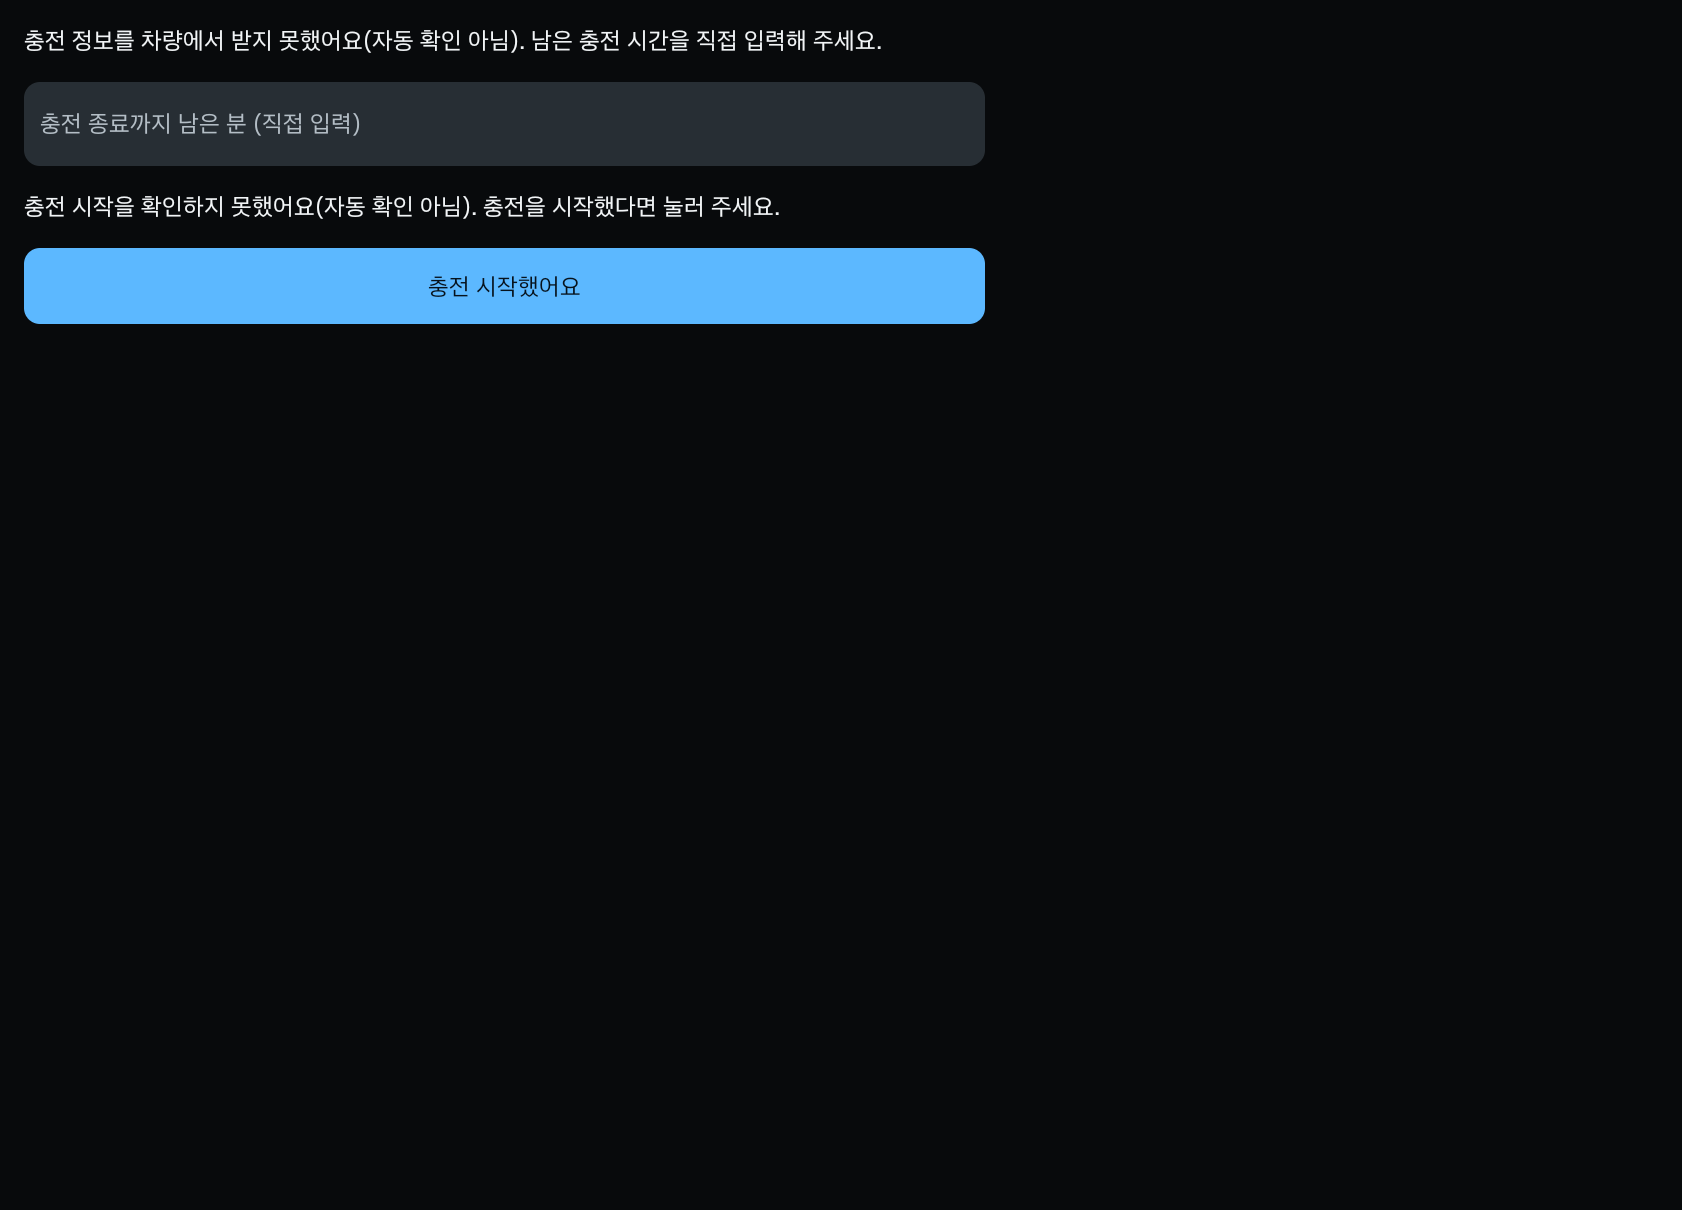
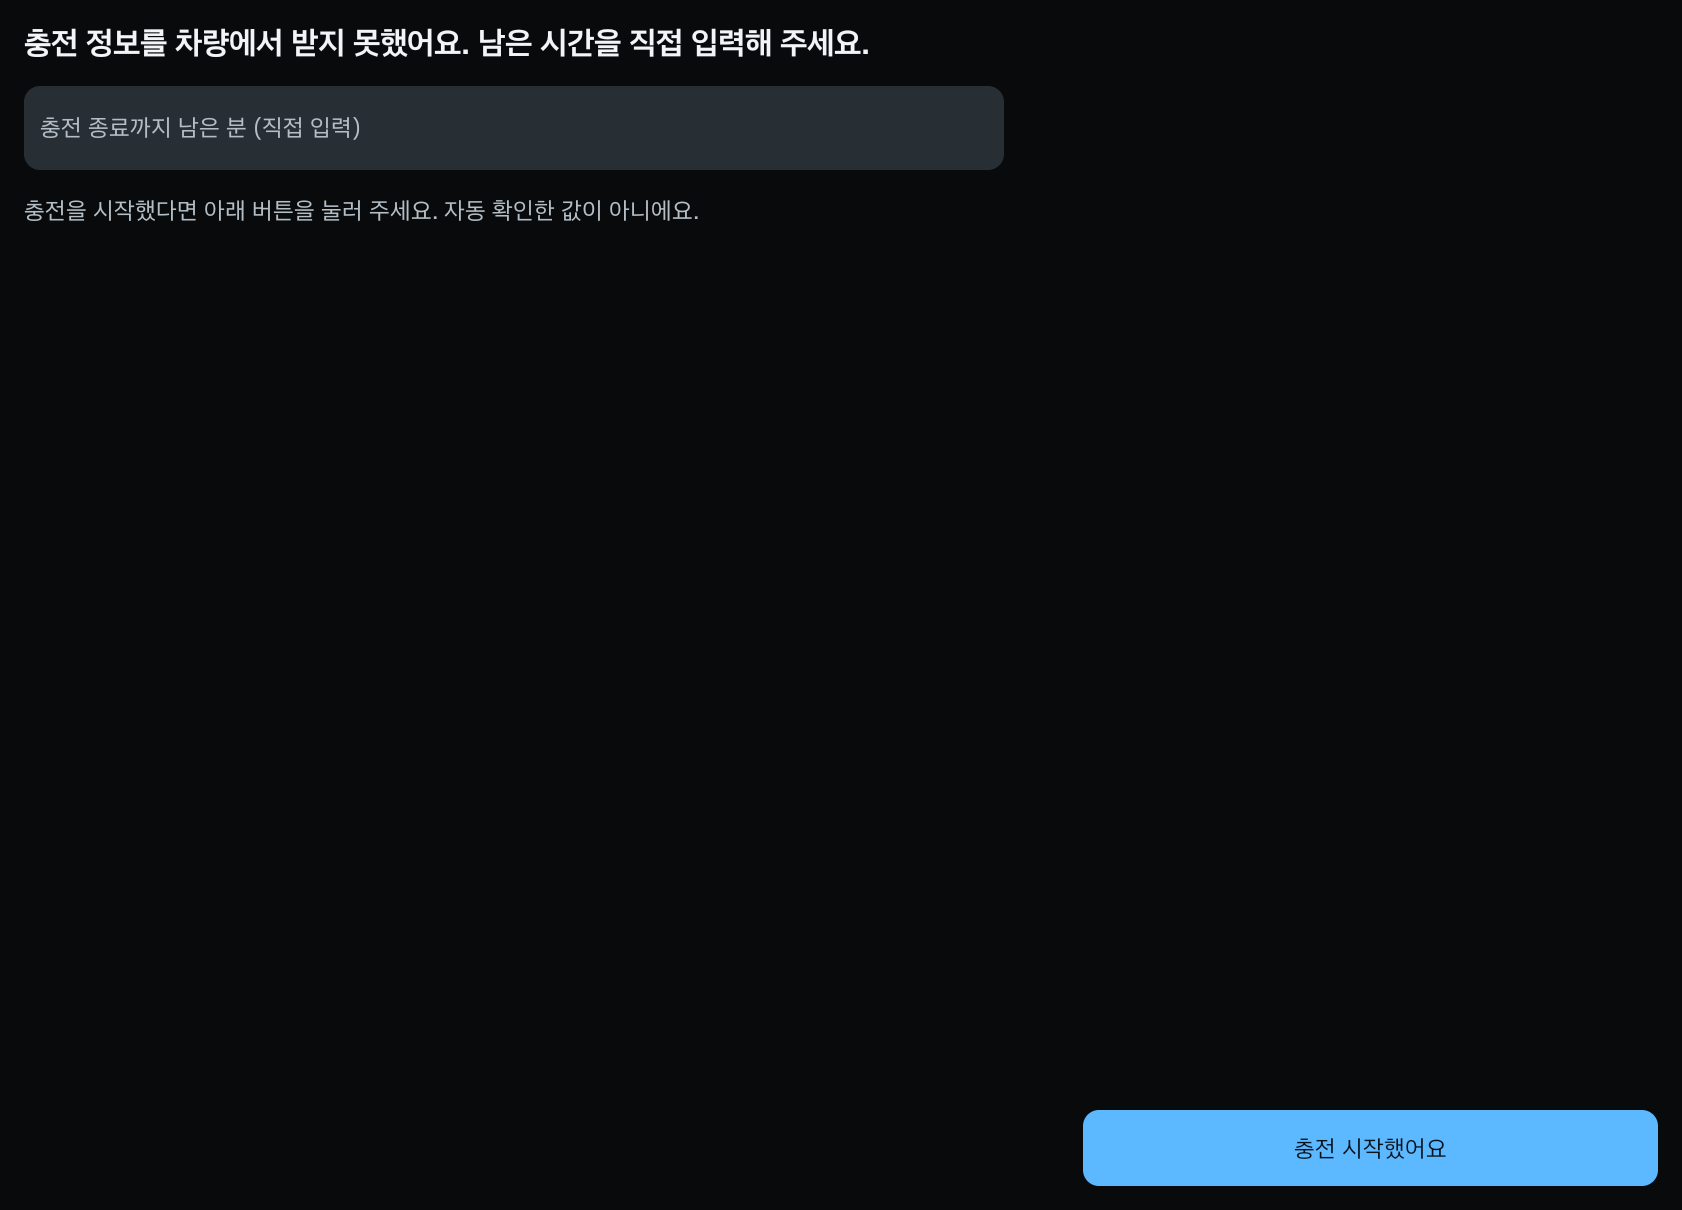
feat(ui): 충전 활동·측정 동의 Figma 위계 반영, 핸드오프·폴백 Figma 프레임 (Refs #56) (#58)

Changed region(s): [[0.0, 0.0, 0.6183, 0.2752], [0.6183, 0.9174, 0.9893, 0.9785]]

diff --git a/feature/activity/src/main/java/ai/familystop/feature/activity/ChargingActivityScreen.kt b/feature/activity/src/main/java/ai/familystop/feature/activity/ChargingActivityScreen.kt
@@ -5,7 +5,8 @@ import ai.familystop.core.designsystem.AppButton
 import ai.familystop.core.designsystem.AppTextField
 import androidx.compose.foundation.layout.Arrangement
 import androidx.compose.foundation.layout.Column
-import androidx.compose.foundation.layout.fillMaxHeight
+import androidx.compose.foundation.layout.Row
+import androidx.compose.foundation.layout.Spacer
 import androidx.compose.foundation.layout.fillMaxSize
 import androidx.compose.foundation.layout.fillMaxWidth
 import androidx.compose.foundation.layout.padding
@@ -55,42 +56,54 @@ fun ChargingActivityScreen(
             if (!autoCharging && it is ChargeInfo.Auto) ChargeInfo.Manual(it.endsAt) else it
         }
 
-    Column(
+    Column(modifier.fillMaxSize().padding(App.space.lg), verticalArrangement = Gap) {
         // 줄 길이 제한(0.6f): 넓은 화면에서 한 줄이 끝없이 늘어나지 않게
-        modifier.fillMaxHeight().fillMaxWidth(0.6f)
-            .verticalScroll(rememberScrollState()).padding(App.space.lg),
-        verticalArrangement = Gap
-    ) {
-        if (autoChargeEndsAt == null) {
-            Text("충전 정보를 차량에서 받지 못했어요(자동 확인 아님). 남은 충전 시간을 직접 입력해 주세요.")
-            AppTextField(
-                minutesText,
-                {
-                    minutesText = it.filter(Char::isDigit).take(3)
-                    manualEndsAt = manualEnd(minutesText, now)
-                },
-                "충전 종료까지 남은 분 (직접 입력)"
-            )
-        } else {
-            Text("충전 종료 예상은 차량에서 자동 확인했어요.")
-        }
-
-        if (!autoCharging && !started) {
-            Text("충전 시작을 확인하지 못했어요(자동 확인 아님). 충전을 시작했다면 눌러 주세요.")
-            AppButton("충전 시작했어요", { started = true }, Modifier.fillMaxWidth())
-            return@Column
-        }
-        if (!autoCharging) Text("충전 시작은 직접 확인한 값이에요(자동 확인 아님).")
-
-        if (candidates.isEmpty()) Text("주변에 확인된 식사·간식·휴식 후보가 없어요.")
-        candidates.forEach { c ->
-            Column(verticalArrangement = Arrangement.spacedBy(App.space.sm)) {
+        Column(
+            Modifier.weight(1f).fillMaxWidth(0.6f).verticalScroll(rememberScrollState()),
+            verticalArrangement = Gap
+        ) {
+            if (autoChargeEndsAt == null) {
                 Text(
-                    "${c.kind.label} · ${c.name}",
+                    "충전 정보를 차량에서 받지 못했어요. 남은 시간을 직접 입력해 주세요.",
                     style = App.type.stopTitle
                 )
-                Text("왕복 ${c.roundTripMin}분 · 활동 ${c.activityMin}분")
-                Text(assess(c, charge, now).message())
+                AppTextField(
+                    minutesText,
+                    {
+                        minutesText = it.filter(Char::isDigit).take(3)
+                        manualEndsAt = manualEnd(minutesText, now)
+                    },
+                    "충전 종료까지 남은 분 (직접 입력)"
+                )
+            } else {
+                Text("충전 종료 예상은 차량에서 자동 확인했어요.", style = App.type.stopTitle)
+            }
+
+            if (!autoCharging && !started) {
+                Text(
+                    "충전을 시작했다면 아래 버튼을 눌러 주세요. 자동 확인한 값이 아니에요.",
+                    color = App.colors.textSecondary
+                )
+            } else {
+                if (!autoCharging) Text("충전 시작은 직접 확인한 값이에요(자동 확인 아님).")
+                if (candidates.isEmpty()) Text("주변에 확인된 식사·간식·휴식 후보가 없어요.")
+                candidates.forEach { c ->
+                    Column(verticalArrangement = Arrangement.spacedBy(App.space.sm)) {
+                        Text("${c.kind.label} · ${c.name}", style = App.type.stopTitle)
+                        Text("왕복 ${c.roundTripMin}분 · 활동 ${c.activityMin}분")
+                        Text(assess(c, charge, now).message())
+                    }
+                }
+            }
+        }
+        // 주 행동은 하단 우측 고정(Figma ActionBar)
+        if (!autoCharging && !started) {
+            Row(
+                Modifier.fillMaxWidth(),
+                horizontalArrangement = Arrangement.spacedBy(App.space.lg)
+            ) {
+                Spacer(Modifier.weight(1.8f))
+                AppButton("충전 시작했어요", { started = true }, Modifier.weight(1f))
             }
         }
     }

diff --git a/feature/metrics/src/main/java/ai/familystop/feature/metrics/ConsentScreen.kt b/feature/metrics/src/main/java/ai/familystop/feature/metrics/ConsentScreen.kt
@@ -6,7 +6,7 @@ import ai.familystop.core.designsystem.AppToggleChip
 import androidx.compose.foundation.layout.Arrangement
 import androidx.compose.foundation.layout.Column
 import androidx.compose.foundation.layout.Row
-import androidx.compose.foundation.layout.fillMaxHeight
+import androidx.compose.foundation.layout.Spacer
 import androidx.compose.foundation.layout.fillMaxSize
 import androidx.compose.foundation.layout.fillMaxWidth
 import androidx.compose.foundation.layout.padding
@@ -48,27 +48,40 @@ fun ConsentScreen(
         Text("정차 후에 확인할 수 있어요.", modifier.fillMaxSize().padding(App.space.lg))
         return
     }
-    Column(
-        modifier.fillMaxHeight().fillMaxWidth(0.6f)
-            .verticalScroll(rememberScrollState()).padding(App.space.lg),
-        verticalArrangement = Arrangement.spacedBy(App.space.lg)
-    ) {
-        if (consented) {
-            Text("측정 동의를 철회하면 이번 여행 기록이 모두 지워져요.")
-            AppButton("동의 철회하고 기록 삭제", onWithdraw, Modifier.fillMaxWidth(), primary = false)
-            return@Column
+    Column(modifier.fillMaxSize().padding(App.space.lg), verticalArrangement = Gap) {
+        Column(
+            Modifier.weight(1f).fillMaxWidth(0.6f).verticalScroll(rememberScrollState()),
+            verticalArrangement = Gap
+        ) {
+            if (consented) {
+                Text("측정 동의를 철회하면 이번 여행 기록이 모두 지워져요.")
+                AppButton("동의 철회하고 기록 삭제", onWithdraw, Modifier.fillMaxWidth(), primary = false)
+                return@Column
+            }
+            Text("이번 여행의 정차 도움 정도를 기록해도 될까요?", style = App.type.stopTitle)
+            Text(
+                "계획 시간·선택 이유·남은 필요를 이 기기에만 저장해요. " +
+                    "이름·계정과 연결하지 않고, 철회하면 이번 여행 기록이 지워져요. " +
+                    "동의하지 않아도 모든 기능을 쓸 수 있어요.",
+                color = App.colors.textSecondary
+            )
+            AppToggleChip(isDriver, "저는 운전자 본인이에요") { isDriver = !isDriver }
+            if (!isDriver) {
+                Text("‘동의하고 기록’은 운전자 본인 확인 뒤에 눌러요.", color = App.colors.textSecondary)
+            }
         }
-        Text("이번 여행의 정차 도움 정도를 기록해도 될까요?", style = App.type.stopTitle)
-        Text(
-            "계획 시간·선택 이유·남은 필요를 이 기기에만 저장해요. " +
-                "이름·계정과 연결하지 않고, 철회하면 이번 여행 기록이 지워져요. " +
-                "동의하지 않아도 모든 기능을 쓸 수 있어요.",
-            color = App.colors.textSecondary
-        )
-        AppToggleChip(isDriver, "저는 운전자 본인이에요") { isDriver = !isDriver }
-        Row(horizontalArrangement = Arrangement.spacedBy(App.space.lg)) {
-            AppButton("동의하고 기록", { onResult(true) }, Modifier.weight(1f), enabled = isDriver)
-            AppButton("기록하지 않을게요", { onResult(false) }, Modifier.weight(1f), primary = false)
+        // 보조(거절)는 왼쪽, 주(동의)는 오른쪽, 하단 우측 고정(Figma 액션 바)
+        if (!consented) {
+            Row(
+                Modifier.fillMaxWidth(),
+                horizontalArrangement = Arrangement.spacedBy(App.space.lg)
+            ) {
+                Spacer(Modifier.weight(1.4f))
+                AppButton("기록하지 않을게요", { onResult(false) }, Modifier.weight(1f), primary = false)
+                AppButton("동의하고 기록", { onResult(true) }, Modifier.weight(1.4f), enabled = isDriver)
+            }
         }
     }
 }
+
+private val Gap @Composable get() = Arrangement.spacedBy(App.space.lg)

diff --git a/app/src/androidTest/java/ai/familystop/ParkedScreensScreenshotTest.kt b/app/src/androidTest/java/ai/familystop/ParkedScreensScreenshotTest.kt
@@ -15,6 +15,8 @@ import androidx.compose.ui.Modifier
 import androidx.compose.ui.platform.testTag
 import androidx.compose.ui.test.junit4.createComposeRule
 import androidx.compose.ui.test.onNodeWithTag
+import androidx.compose.ui.test.onNodeWithText
+import androidx.compose.ui.test.performClick
 import androidx.compose.ui.unit.dp
 import java.time.LocalDateTime
 import org.junit.Rule
@@ -24,12 +26,18 @@ import org.junit.Test
 class ParkedScreensScreenshotTest {
     @get:Rule val rule = createComposeRule()
 
-    private fun shot(name: String, night: Boolean, content: @Composable () -> Unit) {
+    private fun shot(
+        name: String,
+        night: Boolean,
+        content: @Composable () -> Unit,
+        act: () -> Unit = {}
+    ) {
         rule.setContent {
             AppTheme(night = night) {
                 Box(Modifier.size(1680.dp, 950.dp).testTag("shot")) { content() }
             }
         }
+        act()
         rule.waitForIdle()
         rule.onNodeWithTag("shot").saveShot(name)
     }
@@ -66,4 +74,10 @@ class ParkedScreensScreenshotTest {
     @Test fun consentNight() = shot("parked-consent-night", true, consent)
 
     @Test fun consentDay() = shot("parked-consent-day", false, consent)
+
+    private val pickDriver: () -> Unit = { rule.onNodeWithText("저는 운전자 본인이에요").performClick() }
+
+    @Test fun consentDriverNight() = shot("parked-consent-driver-night", true, consent, pickDriver)
+
+    @Test fun consentDriverDay() = shot("parked-consent-driver-day", false, consent, pickDriver)
 }

diff --git a/docs/design-qa/README.md b/docs/design-qa/README.md
@@ -58,9 +58,13 @@
 - Figma Day 프레임 신규(Night 프레임 복제 + `Color` 모드 Day): 충전 활동 `22:517`, 폴백 권한 `22:530`, 측정 동의 `22:543` (Night: `21:546`, `21:569`, `21:597`). Figma 캡처 `figma/v2/{activity,fallback,consent}-{night,day}.png`.
 - 에뮬레이터 캡처: `ParkedScreensScreenshotTest`(앱 셸 탭 제외, 1680×950dp 프레임에 화면만), `scripts/capture-drive-states.sh`로 추출.
 
-| 화면 | Figma | 구현 | 불일치(수정은 `figma-done` 승인 후) |
-|---|---|---|---|
-| 폴백 | 카드 폭 ≈ 화면 60%, 본문 2줄 | 폭 ≈ 70%, 데이터 사유 줄 1개 추가("지금은 현재 위치 기준 추천을 할 수 없어요.") | ① 사유 줄 Figma에 없음 ② 카드 폭 |
-| 충전 활동 | 안내문 큰 글자(32sp 굵게), 힌트 1줄, "충전 시작했어요" 버튼 하단 우측 고정 | 안내 2줄 일반 글자, 버튼이 필드 바로 아래 전폭 | ① 안내 위계 ② 버튼 위치·폭 |
-| 측정 동의 | "저는 운전자 본인이에요" 선택 시 accent, 하단 우측에 [기록하지 않을게요][동의하고 기록] | 버튼 3개가 본문 아래 인라인, 동의 버튼은 운전자 선택 전 비활성 회색 | ① 버튼 하단 고정·주/보조 구분 ② 운전자 칩 상태 표현 |
-| 핸드오프 | Figma 프레임 없음 | 4상태 구현, 칩+큰 버튼 | Figma 프레임 신규 필요(후속) |
+### 불일치 해소 (2026-11-09, 승인 방침 반영)
+
+| 화면 | 조치 | 증거 |
+|---|---|---|
+| 폴백 | 사유 줄은 유지, Figma 프레임에 사유 줄 추가·카드 폭 1177으로 맞춤 | Figma Night `21:569` / Day `22:530`, 캡처 `shots/parked-states/parked-fallback-*` |
+| 충전 활동 | 코드 수정: 안내 32sp(`stopTitle`), 힌트 1줄, "충전 시작했어요" 하단 우측 고정 | Figma `21:546` / `22:517`, `parked-activity-*` |
+| 측정 동의 | 코드 수정: [기록하지 않을게요(보조)][동의하고 기록(주)] 하단 우측 고정, 운전자 선택 전 안내 문구, 선택 시 accent+체크 | Figma `21:597` / `22:543`, `parked-consent-*`, `parked-consent-driver-*` |
+| 핸드오프 | Figma 4상태 Night/Day 신규, 코드와 일치(수정 없음) | Figma Night `23:546` 전달 중·`23:571` 성공·`23:603` 실패·`23:634` 교체 / Day `23:668`·`23:693`·`23:725`·`23:756`, 캡처 `shots/handoff/` |
+
+불일치 0건, '미검증' 0건.
